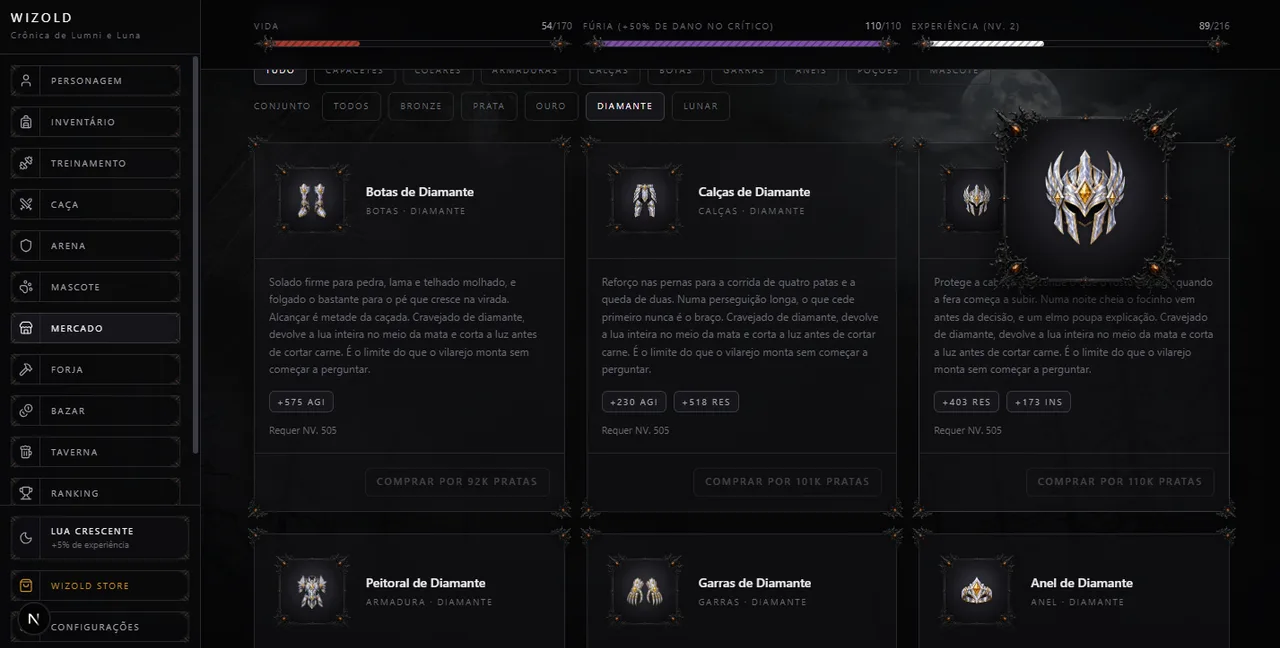
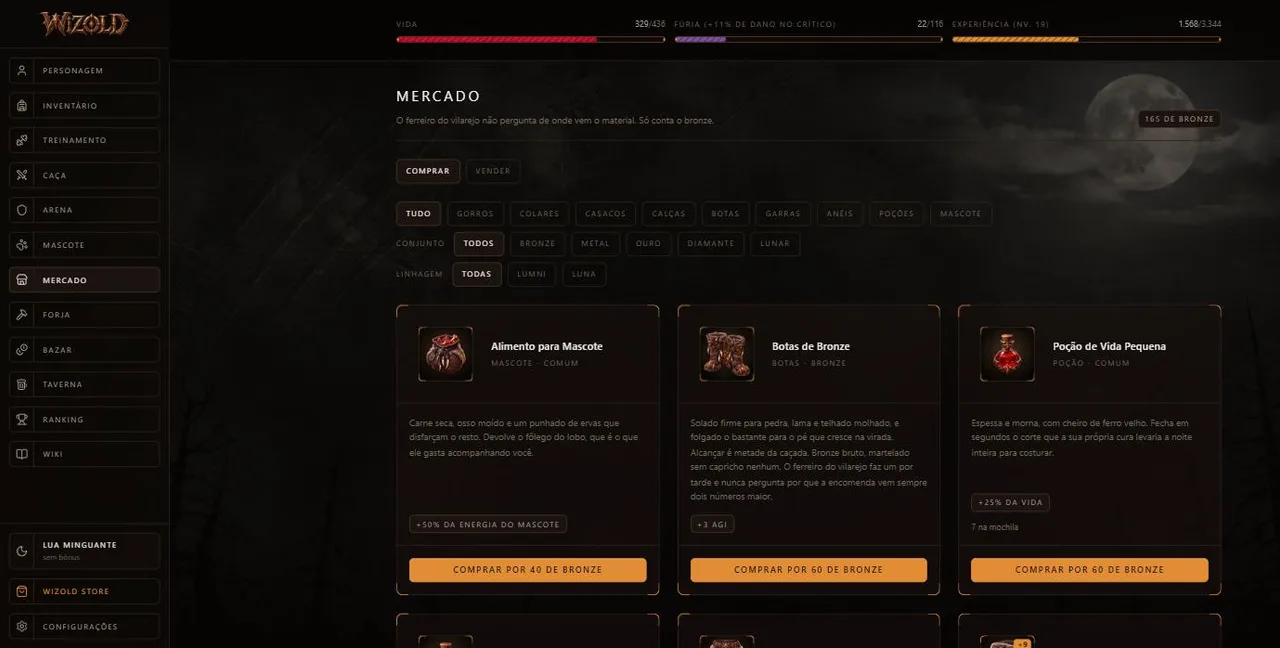
Tour da landing refeito com seis prints atuais tiradas do jogo vivo: Personagem, Inventario, Caca, Mascote, Mercado e Forja, no v4

diff --git a/src/models/data/preview.ts b/src/models/data/preview.ts
@@ -14,16 +14,16 @@ export const PREVIEW_SHOTS: readonly PreviewShot[] = [
     text:
       "Cada atributo mostra de onde veio cada ponto: treino, equipamento, mascote, lua e " +
       "lobisomem em colunas separadas. Some com o dedo e você chega no total.",
-    image: "/assets/landing/character.webp?v=3",
+    image: "/assets/landing/character.webp?v=4",
   },
   {
-    key: "training",
-    label: "Treinamento",
-    title: "Um exercício para cada atributo",
+    key: "inventory",
+    label: "Inventário",
+    title: "Sete espaços e uma mochila honesta",
     text:
-      "Só a fera treina, uma sessão por clique e bronze a cada uma: é o único jeito de mover um " +
-      "atributo. Subir de nível não dá poder, dá permissão.",
-    image: "/assets/landing/training.webp?v=3",
+      "Capacete, colar, armadura, calças, botas, garras e anel: uma peça por espaço, e o que a " +
+      "peça promete é exatamente o que a ficha soma. O que foi forjado carrega o +X na arte.",
+    image: "/assets/landing/inventory.webp?v=4",
   },
   {
     key: "hunt",
@@ -32,16 +32,16 @@ export const PREVIEW_SHOTS: readonly PreviewShot[] = [
     text:
       "A caçada roda em rodadas, narrada golpe a golpe, e a presa cresce junto com você dentro " +
       "da faixa do território. Transforme-se antes: em pele humana o campo recusa.",
-    image: "/assets/landing/hunt.webp?v=3",
+    image: "/assets/landing/hunt.webp?v=4",
   },
   {
-    key: "arena",
-    label: "Arena",
-    title: "O fosso: a caça virada contra a matilha",
+    key: "pet",
+    label: "Mascote",
+    title: "Um lobo do seu lado, com ladder própria",
     text:
-      "Outro caçador do plantel no lugar da presa, os dois transformados, golpe a golpe. Três " +
-      "duelos por dia e só o bronze troca de mãos: nível se ganha na trilha, nunca no fosso.",
-    image: "/assets/landing/arena.webp?v=3",
+      "Adotado uma vez, para sempre: ele morde na caçada, empresta atributos enquanto acompanha " +
+      "e sobe os próprios níveis no pátio. A energia é o único fôlego dele; comida ou repouso devolvem.",
+    image: "/assets/landing/pet.webp?v=4",
   },
   {
     key: "market",
@@ -50,6 +50,15 @@ export const PREVIEW_SHOTS: readonly PreviewShot[] = [
     text:
       "Do bronze ao lunar, e uma peça só empresta atributo: o que o card promete é exatamente o " +
       "que a ficha soma e o que a luta lê. O resto é forja, mina e paciência.",
-    image: "/assets/landing/market.webp?v=3",
+    image: "/assets/landing/market.webp?v=4",
+  },
+  {
+    key: "forge",
+    label: "Forja",
+    title: "A bigorna bate na peça que você já usa",
+    text:
+      "A mina abre os veios, o fragmento certo alimenta a marreta, e cada nível forjado soma " +
+      "ponto e porcentagem à peça. O nível pertence à peça: tirar do corpo não desfaz o trabalho.",
+    image: "/assets/landing/forge.webp?v=4",
   },
 ];

diff --git a/src/views/screens/landing.screen.tsx b/src/views/screens/landing.screen.tsx
@@ -167,7 +167,7 @@ export function LandingScreen() {
           <div className="space-y-1 text-center">
             <h2 className="heading text-[11px] text-ink">Por dentro do jogo</h2>
             <p className="text-xs text-ink-faint">
-              Cinco telas da mesma noite, do jeito que elas aparecem no navegador.
+              Seis telas da mesma noite, do jeito que elas aparecem no navegador.
             </p>
           </div>
 
